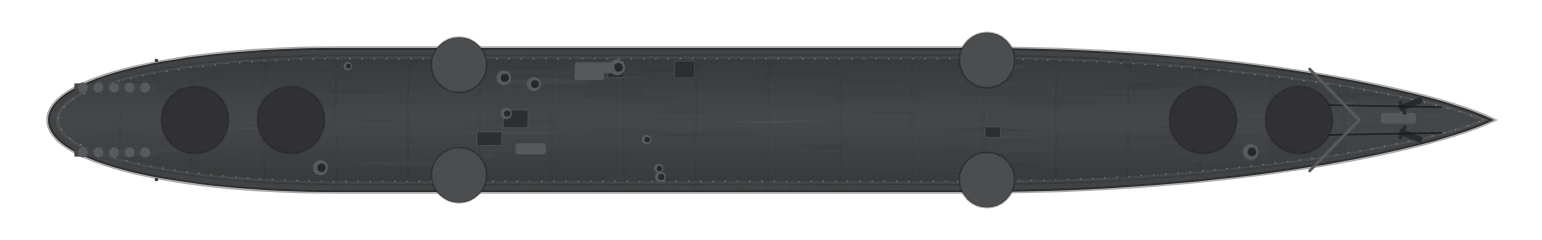
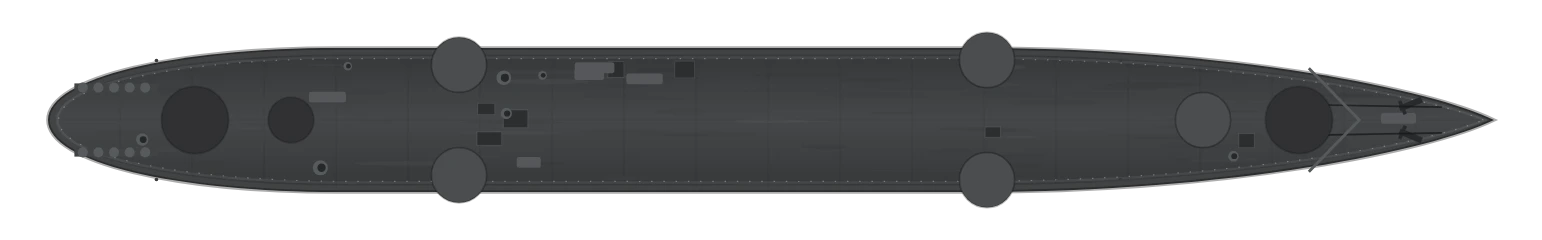
Other navies' captains choose when to ping and radiate; a hunted boat creeps; corrected batteries and a neutral name for the 5-inch gun
Claude-Session: https://claude.ai/code/session_0112riLDgQ9wmp9DPbCcQQSj

diff --git a/index.html b/index.html
@@ -156,8 +156,8 @@ const WEAPONS = {
   g102t: { name: '4-inch twin HA',             size: 'S', kind: 'gun', dmg: 24,  range: 2500, rel: 4.5, speed: 300, spread: .010, barrels: 2, aa: .05, price: 3500,  tw: 3.4, tl: 3.4, bl: 4.4, bw: .32, gap: .9, open: true },
   g76:   { name: '76 mm rapid DP',             size: 'S', kind: 'gun', dmg: 15,  range: 2300, rel: 1.5, speed: 330, spread: .009, barrels: 2, aa: .05, price: 4000,  tw: 3.4, tl: 4,  bl: 3.6, bw: .26, gap: .9, tech: 'missiles' },
   g120t: { name: '4.7-inch twin',              size: 'S', kind: 'gun', dmg: 27,  range: 2700, rel: 5,   speed: 310, spread: .010, barrels: 2, aa: 0,   price: 4500,  tw: 4.2, tl: 5,  bl: 5.2, bw: .36, gap: 1.2 },
-  g127s: { name: '5-inch/38 single DP',        size: 'S', kind: 'gun', dmg: 30,  range: 3000, rel: 4,   speed: 320, spread: .010, barrels: 1, aa: .05, price: 3000,  tw: 3.6, tl: 5,  bl: 5.2, bw: .38 },
-  g127:  { name: '5-inch/38 twin DP',          size: 'M', kind: 'gun', dmg: 30,  range: 3000, rel: 4,   speed: 320, spread: .010, barrels: 2, aa: .06, price: 6000,  tw: 4.8, tl: 6,  bl: 5.2, bw: .38, gap: 1.4 },
+  g127s: { name: '5-inch single DP',           size: 'S', kind: 'gun', dmg: 30,  range: 3000, rel: 4,   speed: 320, spread: .010, barrels: 1, aa: .05, price: 3000,  tw: 3.6, tl: 5,  bl: 5.2, bw: .38 },
+  g127:  { name: '5-inch twin DP',             size: 'M', kind: 'gun', dmg: 30,  range: 3000, rel: 4,   speed: 320, spread: .010, barrels: 2, aa: .06, price: 6000,  tw: 4.8, tl: 6,  bl: 5.2, bw: .38, gap: 1.4 },
   g130t: { name: '130 mm twin',                size: 'M', kind: 'gun', dmg: 33,  range: 3100, rel: 5,   speed: 320, spread: .010, barrels: 2, aa: .02, price: 7000,  tw: 5,   tl: 6.4, bl: 6.2, bw: .4, gap: 1.5 },
   g150s: { name: '150 mm single',              size: 'M', kind: 'gun', dmg: 55,  range: 3600, rel: 7.5, speed: 340, spread: .009, barrels: 1, aa: 0,   price: 5000,  tw: 4,   tl: 5.6, bl: 7,   bw: .44 },
   g150t: { name: '150 mm twin',                size: 'M', kind: 'gun', dmg: 55,  range: 3600, rel: 7.5, speed: 340, spread: .009, barrels: 2, aa: 0,   price: 10000, tw: 6,   tl: 7.6, bl: 7,   bw: .44, gap: 1.8 },
@@ -286,7 +286,8 @@ const DESIGN_LIST = [
     slots: [sl('M', 37, 0, FWD, 'g120t'), sl('M', -39, 0, AFT, 'g120t'), sl('T', -6, 0, BEAM, 'tor'), sl('T', -18, 0, BEAM, 'tor'), ...pair('A', 12, 4.4, 'aa20'), ...pair('A', -30, 3.6, 'aa20')] },
   { id: 'dd_skory', cls: 'dd', yard: 'neva', dn: 'Strazh', model: 'Skory-class destroyer', year: 1949, era: 2, L: 120.5, B: 12, t: 2316, kn: 36.5, td: 700, armor: 15, crew: 286, price: 34000, radar: true,
     p: { bow: .36, run: .2, stern: 'c', sup: [[26.4, 11.7, 8, 3], [-31, 8, 5, 1]], fun: [[12, 2.6, 2], [-4, 2.6, 2]], mast: [[20, 'l']], boats: [[4, 1]] },
-    slots: [sl('M', 44, 0, FWD, 'g130t'), sl('M', 36, 0, FWD, 'g130t'), sl('M', -40, 0, AFT, 'g130t'), sl('M', -48, 0, AFT, 'g130t'), sl('T', 2, 0, BEAM, 'tor'), sl('T', -16, 0, BEAM, 'tor'), ...pair('A', 18, 5, 'aa40'), ...pair('A', -26, 4.6, 'aa40')] },
+    // (her model carried two twin 130 mm, one forward and one aft, and a twin 85 mm anti-aircraft mount aft: not four twin 130s. The slots keep their order, for saved ships.)
+    slots: [sl('M', 44, 0, FWD, 'g130t'), sl('A', 36, 0, FWD, 'aa40'), sl('S', -40, 0, AFT, 'g102t'), sl('M', -48, 0, AFT, 'g130t'), sl('T', 2, 0, BEAM, 'tor'), sl('T', -16, 0, BEAM, 'tor'), ...pair('A', 18, 5, 'aa40'), ...pair('A', -26, 4.6, 'aa40')] },
   { id: 'dd_daring', cls: 'dd', yard: 'clydemouth', dn: 'Paladin', model: 'Daring-class destroyer', year: 1952, era: 2, L: 118.9, B: 13.1, t: 2830, kn: 34.75, td: 660, armor: 15, crew: 297, price: 36000, radar: true,
     p: { bow: .34, run: .22, stern: 't', tw: .5, sup: [[24.5, 12.9, 9, 3], [-30, 10, 6, 1]], fun: [[12, 2.6, 2], [-6, 2.8, 2.1]], mast: [[18, 'l']], boats: [[2, 1]] },
     slots: [sl('M', 42, 0, FWD, 'g120t'), sl('M', 34, 0, FWD, 'g120t'), sl('M', -45, 0, AFT, 'g120t'), sl('T', -16, 0, BEAM, 'tor'), ...pair('A', -34, 4.6, 'aa40'), ...pair('A', 0, 5.4, 'aa40')] },
@@ -413,7 +414,7 @@ const DESIGN_LIST = [
     slots: [sl('H', 62, 0, FWD, 'g406'), sl('H', 44, 0, FWD, 'g406'), Object.assign(sl('H', 26, 0, FWD, 'g406'), { low: true }), ...pair('M', -30, 11.8, 'g152t'), ...pair('M', -42, 12.4, 'g152t'), ...pair('M', -54, 11.8, 'g152t'), ...pair('S', 10, 13, 'g102'), ...pair('S', -66, 10, 'g102'), ...pair('A', -6, 11, 'aa40'), ...pair('A', -22, 10, 'aa40')] },
   { id: 'bb_scharnhorst', cls: 'bb', name: 'Fast Battleship', yard: 'ostsee', dn: 'Markgraf', model: 'Scharnhorst-class battleship', year: 1938, era: 1, L: 234.9, B: 30, t: 32100, kn: 31, td: 950, armor: 350, crew: 1669, price: 105000,
     p: { bow: .36, run: .22, stern: 'c', deck: 'teak', house: [[-2, 66, 15]], sup: [[32, 20, 14, 5], [-30, 16, 11, 3]], fun: [[7, 4.6, 3.6]], mast: [[26, 't'], [-22, 'p']], boats: [[-18, 2]], cat: [[-8, 0]], crane: [[-13, -9.5], [-13, 9.5]] },
-    slots: [sl('H', 68, 0, FWD, 'g283'), sl('H', 52, 0, FWD, 'g283'), sl('H', -58, 0, AFT, 'g283'), ...pair('M', 24, 12.2, 'g150t'), ...pair('M', -24, 12.4, 'g150t'), ...pair('M', 8, 13.2, 'g150s'), ...pair('S', -4, 13.2, 'g102t'), ...pair('S', -38, 11.4, 'g102t'), ...pair('A', 40, 9.6, 'aa40'), ...pair('A', -46, 10, 'aa40')] },
+    slots: [sl('H', 68, 0, FWD, 'g283'), sl('H', 52, 0, FWD, 'g283'), sl('H', -58, 0, AFT, 'g283'), ...pair('M', 24, 12.2, 'g150t'), ...pair('M', -24, 12.4, 'g150t'), ...pair('M', 8, 13.2, 'g150s'), ...pair('S', -4, 13.2, 'g102t'), ...pair('S', -38, 11.4, 'g102t'), ...pair('A', 40, 9.6, 'aa40'), ...pair('A', -46, 10, 'aa40'), ...pair('M', 16, 12.8, 'g150s')] },   // her model had four single 150s, not two: the second pair is added last, so saved ships' fits keep their places
   // ---------------------------------------------------------------- missile destroyers (Era II)
   { id: 'ddg_adams', cls: 'ddg', yard: 'tidewater', dn: 'Sentry', model: 'Charles F. Adams-class destroyer', year: 1960, era: 2, L: 133.2, B: 14.3, t: 3277, kn: 33, td: 720, armor: 15, crew: 333, price: 75000,
     p: { bow: .34, run: .22, stern: 't', tw: .5, sup: [[30, 18, 10, 3], [-24, 10, 7, 1]], fun: [[14, 2.4, 1.8], [-6, 2.4, 1.8]], mast: [[22, 'l'], [0, 'l']], boats: [[6, 1]] },

diff --git a/src/game.html b/src/game.html
@@ -153,8 +153,8 @@ const WEAPONS = {
   g102t: { name: '4-inch twin HA',             size: 'S', kind: 'gun', dmg: 24,  range: 2500, rel: 4.5, speed: 300, spread: .010, barrels: 2, aa: .05, price: 3500,  tw: 3.4, tl: 3.4, bl: 4.4, bw: .32, gap: .9, open: true },
   g76:   { name: '76 mm rapid DP',             size: 'S', kind: 'gun', dmg: 15,  range: 2300, rel: 1.5, speed: 330, spread: .009, barrels: 2, aa: .05, price: 4000,  tw: 3.4, tl: 4,  bl: 3.6, bw: .26, gap: .9, tech: 'missiles' },
   g120t: { name: '4.7-inch twin',              size: 'S', kind: 'gun', dmg: 27,  range: 2700, rel: 5,   speed: 310, spread: .010, barrels: 2, aa: 0,   price: 4500,  tw: 4.2, tl: 5,  bl: 5.2, bw: .36, gap: 1.2 },
-  g127s: { name: '5-inch/38 single DP',        size: 'S', kind: 'gun', dmg: 30,  range: 3000, rel: 4,   speed: 320, spread: .010, barrels: 1, aa: .05, price: 3000,  tw: 3.6, tl: 5,  bl: 5.2, bw: .38 },
-  g127:  { name: '5-inch/38 twin DP',          size: 'M', kind: 'gun', dmg: 30,  range: 3000, rel: 4,   speed: 320, spread: .010, barrels: 2, aa: .06, price: 6000,  tw: 4.8, tl: 6,  bl: 5.2, bw: .38, gap: 1.4 },
+  g127s: { name: '5-inch single DP',           size: 'S', kind: 'gun', dmg: 30,  range: 3000, rel: 4,   speed: 320, spread: .010, barrels: 1, aa: .05, price: 3000,  tw: 3.6, tl: 5,  bl: 5.2, bw: .38 },
+  g127:  { name: '5-inch twin DP',             size: 'M', kind: 'gun', dmg: 30,  range: 3000, rel: 4,   speed: 320, spread: .010, barrels: 2, aa: .06, price: 6000,  tw: 4.8, tl: 6,  bl: 5.2, bw: .38, gap: 1.4 },
   g130t: { name: '130 mm twin',                size: 'M', kind: 'gun', dmg: 33,  range: 3100, rel: 5,   speed: 320, spread: .010, barrels: 2, aa: .02, price: 7000,  tw: 5,   tl: 6.4, bl: 6.2, bw: .4, gap: 1.5 },
   g150s: { name: '150 mm single',              size: 'M', kind: 'gun', dmg: 55,  range: 3600, rel: 7.5, speed: 340, spread: .009, barrels: 1, aa: 0,   price: 5000,  tw: 4,   tl: 5.6, bl: 7,   bw: .44 },
   g150t: { name: '150 mm twin',                size: 'M', kind: 'gun', dmg: 55,  range: 3600, rel: 7.5, speed: 340, spread: .009, barrels: 2, aa: 0,   price: 10000, tw: 6,   tl: 7.6, bl: 7,   bw: .44, gap: 1.8 },
@@ -283,7 +283,8 @@ const DESIGN_LIST = [
     slots: [sl('M', 37, 0, FWD, 'g120t'), sl('M', -39, 0, AFT, 'g120t'), sl('T', -6, 0, BEAM, 'tor'), sl('T', -18, 0, BEAM, 'tor'), ...pair('A', 12, 4.4, 'aa20'), ...pair('A', -30, 3.6, 'aa20')] },
   { id: 'dd_skory', cls: 'dd', yard: 'neva', dn: 'Strazh', model: 'Skory-class destroyer', year: 1949, era: 2, L: 120.5, B: 12, t: 2316, kn: 36.5, td: 700, armor: 15, crew: 286, price: 34000, radar: true,
     p: { bow: .36, run: .2, stern: 'c', sup: [[26.4, 11.7, 8, 3], [-31, 8, 5, 1]], fun: [[12, 2.6, 2], [-4, 2.6, 2]], mast: [[20, 'l']], boats: [[4, 1]] },
-    slots: [sl('M', 44, 0, FWD, 'g130t'), sl('M', 36, 0, FWD, 'g130t'), sl('M', -40, 0, AFT, 'g130t'), sl('M', -48, 0, AFT, 'g130t'), sl('T', 2, 0, BEAM, 'tor'), sl('T', -16, 0, BEAM, 'tor'), ...pair('A', 18, 5, 'aa40'), ...pair('A', -26, 4.6, 'aa40')] },
+    // (her model carried two twin 130 mm, one forward and one aft, and a twin 85 mm anti-aircraft mount aft: not four twin 130s. The slots keep their order, for saved ships.)
+    slots: [sl('M', 44, 0, FWD, 'g130t'), sl('A', 36, 0, FWD, 'aa40'), sl('S', -40, 0, AFT, 'g102t'), sl('M', -48, 0, AFT, 'g130t'), sl('T', 2, 0, BEAM, 'tor'), sl('T', -16, 0, BEAM, 'tor'), ...pair('A', 18, 5, 'aa40'), ...pair('A', -26, 4.6, 'aa40')] },
   { id: 'dd_daring', cls: 'dd', yard: 'clydemouth', dn: 'Paladin', model: 'Daring-class destroyer', year: 1952, era: 2, L: 118.9, B: 13.1, t: 2830, kn: 34.75, td: 660, armor: 15, crew: 297, price: 36000, radar: true,
     p: { bow: .34, run: .22, stern: 't', tw: .5, sup: [[24.5, 12.9, 9, 3], [-30, 10, 6, 1]], fun: [[12, 2.6, 2], [-6, 2.8, 2.1]], mast: [[18, 'l']], boats: [[2, 1]] },
     slots: [sl('M', 42, 0, FWD, 'g120t'), sl('M', 34, 0, FWD, 'g120t'), sl('M', -45, 0, AFT, 'g120t'), sl('T', -16, 0, BEAM, 'tor'), ...pair('A', -34, 4.6, 'aa40'), ...pair('A', 0, 5.4, 'aa40')] },
@@ -410,7 +411,7 @@ const DESIGN_LIST = [
     slots: [sl('H', 62, 0, FWD, 'g406'), sl('H', 44, 0, FWD, 'g406'), Object.assign(sl('H', 26, 0, FWD, 'g406'), { low: true }), ...pair('M', -30, 11.8, 'g152t'), ...pair('M', -42, 12.4, 'g152t'), ...pair('M', -54, 11.8, 'g152t'), ...pair('S', 10, 13, 'g102'), ...pair('S', -66, 10, 'g102'), ...pair('A', -6, 11, 'aa40'), ...pair('A', -22, 10, 'aa40')] },
   { id: 'bb_scharnhorst', cls: 'bb', name: 'Fast Battleship', yard: 'ostsee', dn: 'Markgraf', model: 'Scharnhorst-class battleship', year: 1938, era: 1, L: 234.9, B: 30, t: 32100, kn: 31, td: 950, armor: 350, crew: 1669, price: 105000,
     p: { bow: .36, run: .22, stern: 'c', deck: 'teak', house: [[-2, 66, 15]], sup: [[32, 20, 14, 5], [-30, 16, 11, 3]], fun: [[7, 4.6, 3.6]], mast: [[26, 't'], [-22, 'p']], boats: [[-18, 2]], cat: [[-8, 0]], crane: [[-13, -9.5], [-13, 9.5]] },
-    slots: [sl('H', 68, 0, FWD, 'g283'), sl('H', 52, 0, FWD, 'g283'), sl('H', -58, 0, AFT, 'g283'), ...pair('M', 24, 12.2, 'g150t'), ...pair('M', -24, 12.4, 'g150t'), ...pair('M', 8, 13.2, 'g150s'), ...pair('S', -4, 13.2, 'g102t'), ...pair('S', -38, 11.4, 'g102t'), ...pair('A', 40, 9.6, 'aa40'), ...pair('A', -46, 10, 'aa40')] },
+    slots: [sl('H', 68, 0, FWD, 'g283'), sl('H', 52, 0, FWD, 'g283'), sl('H', -58, 0, AFT, 'g283'), ...pair('M', 24, 12.2, 'g150t'), ...pair('M', -24, 12.4, 'g150t'), ...pair('M', 8, 13.2, 'g150s'), ...pair('S', -4, 13.2, 'g102t'), ...pair('S', -38, 11.4, 'g102t'), ...pair('A', 40, 9.6, 'aa40'), ...pair('A', -46, 10, 'aa40'), ...pair('M', 16, 12.8, 'g150s')] },   // her model had four single 150s, not two: the second pair is added last, so saved ships' fits keep their places
   // ---------------------------------------------------------------- missile destroyers (Era II)
   { id: 'ddg_adams', cls: 'ddg', yard: 'tidewater', dn: 'Sentry', model: 'Charles F. Adams-class destroyer', year: 1960, era: 2, L: 133.2, B: 14.3, t: 3277, kn: 33, td: 720, armor: 15, crew: 333, price: 75000,
     p: { bow: .34, run: .22, stern: 't', tw: .5, sup: [[30, 18, 10, 3], [-24, 10, 7, 1]], fun: [[14, 2.4, 1.8], [-6, 2.4, 1.8]], mast: [[22, 'l'], [0, 'l']], boats: [[6, 1]] },
